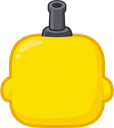
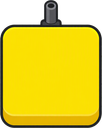
v2.7.2: 重绘基础版黄方块，贴近 v1 纯方块造型

diff --git a/CHANGELOG.md b/CHANGELOG.md
@@ -5,6 +5,11 @@
 格式基于 [Keep a Changelog](https://keepachangelog.com/zh-CN/1.0.0/)，
 本项目遵循 [语义化版本控制](https://semver.org/spec/v2.0.0.html)。
 
+## [2.7.2] - 2026-09-16
+
+### 变更 🔧
+- **重绘基础版黄方块**：v2.7.0 的 AI 黄方块两侧凸起+高光读起来像「脑袋」，按 v1 原版截图重生成——纯圆角方块轮廓、亮黄正面 + 底部深黄立体边、细深描边、顶部贴边小枪管，无侧边凸起、无脸无四肢
+
 ## [2.7.1] - 2026-09-16
 
 ### 修复 🐛
